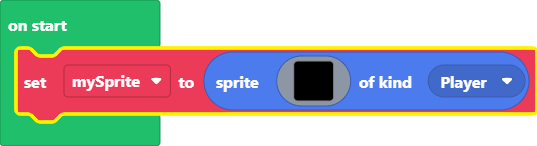
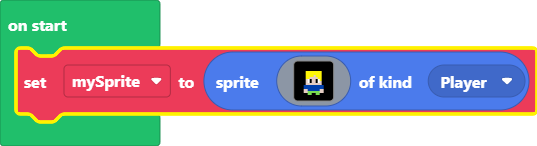
Update main.blocks, main.ts

Changed region(s): [[0.5661, 0.4658, 0.6257, 0.6575]]

diff --git a/main.ts b/main.ts
@@ -1,18 +1,18 @@
 let mySprite = sprites.create(img`
-    . . . . . . . . . . . . . . . . 
-    . . . . . . . . . . . . . . . . 
-    . . . . . . . . . . . . . . . . 
-    . . . . . . . . . . . . . . . . 
-    . . . . . . . . . . . . . . . . 
-    . . . . . . . . . . . . . . . . 
-    . . . . . . . . . . . . . . . . 
-    . . . . . . . . . . . . . . . . 
-    . . . . . . . . . . . . . . . . 
-    . . . . . . . . . . . . . . . . 
-    . . . . . . . . . . . . . . . . 
-    . . . . . . . . . . . . . . . . 
-    . . . . . . . . . . . . . . . . 
-    . . . . . . . . . . . . . . . . 
-    . . . . . . . . . . . . . . . . 
-    . . . . . . . . . . . . . . . . 
+    . . . . . . . . . . . . . . 
+    . . . . . . . . . . . . . . 
+    . . . . . . . . . . . . . . 
+    . . . 5 5 5 5 5 5 5 5 . . . 
+    . . . 5 5 5 5 5 5 5 5 . . . 
+    . . . 5 5 5 5 d 5 5 5 . . . 
+    . . . 5 5 d d d d 5 5 . . . 
+    . . . d 1 f d d f 1 5 . . . 
+    . . . d 1 f d d f 1 d . . . 
+    . . . d d d d d d d d . . . 
+    . . 8 8 8 8 8 8 8 8 8 8 . . 
+    . . 8 8 8 8 8 8 8 8 8 8 . . 
+    . . d d 8 8 8 8 8 8 d d . . 
+    . . d d 7 7 7 7 7 7 d d . . 
+    . . . . 7 7 . . 7 7 . . . . 
+    . . . . f f . . f f . . . . 
     `, SpriteKind.Player)
